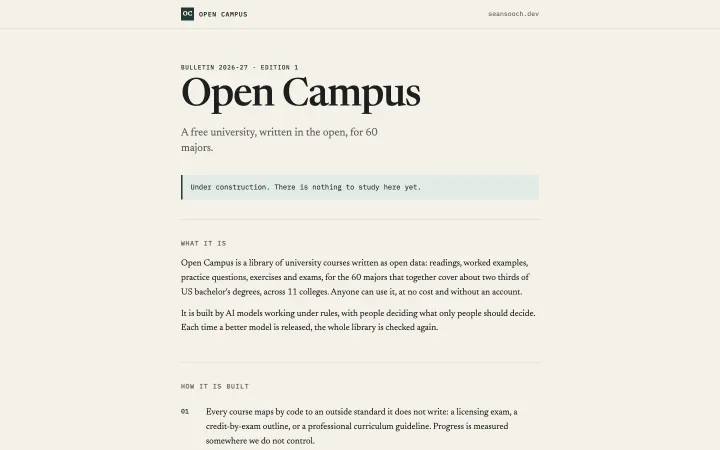
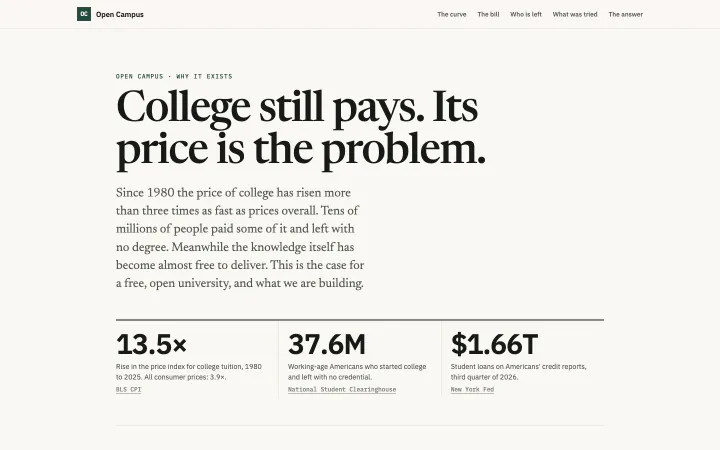
Works: Open Campus plate retaken on its new landing page; vol4 and card retaken after it

diff --git a/index.html b/index.html
@@ -10,7 +10,7 @@
 <meta property="og:description" content="Twenty-four live works where medicine, the military and frontier AI meet, built by a medical student and military officer with AI as the engineering tool. 176,913 lines across 487 files in fifteen of them. Every one is live, and this page asks each address to answer while you read.">
 <meta property="og:type" content="website">
 <meta property="og:url" content="https://seansooch.dev/">
-<meta property="og:image" content="https://seansooch.dev/plates/card.jpg?v=6afbb0e624">
+<meta property="og:image" content="https://seansooch.dev/plates/card.jpg?v=fa102caf46">
 <meta property="og:image:width" content="1200">
 <meta property="og:image:height" content="630">
 <meta name="twitter:card" content="summary_large_image">
@@ -256,7 +256,7 @@
       </div>
       
     </article><article class="work pair" id="campus" data-worlds="mac hum">
-      <figure class="plate-fig"><a class="plate" href="https://campus.seansooch.dev/" target="_blank" rel="noopener" tabindex="-1" aria-hidden="true"><img src="/plates/campus-720.webp?v=9b9a662ab5" srcset="/plates/campus-720.webp?v=9b9a662ab5 720w, /plates/campus.webp?v=13f58046a2 1440w" sizes="(max-width: 860px) 92vw, 46vw" width="1440" height="900" alt="Open Campus, as it looked on 17 Nov 2026" decoding="async" loading="lazy"></a></figure>
+      <figure class="plate-fig"><a class="plate" href="https://campus.seansooch.dev/" target="_blank" rel="noopener" tabindex="-1" aria-hidden="true"><img src="/plates/campus-720.webp?v=2083b9eca8" srcset="/plates/campus-720.webp?v=2083b9eca8 720w, /plates/campus.webp?v=769c20acc4 1440w" sizes="(max-width: 860px) 92vw, 46vw" width="1440" height="900" alt="Open Campus, as it looked on 17 Nov 2026" decoding="async" loading="lazy"></a></figure>
       <header class="work-h">
         <p class="cap-top lbl"><span>Machines · 60 majors</span><span class="live"><i class="dot" data-dot="campus"></i><span data-ms="campus">not asked yet</span><span class="note">under construction</span></span></p>
         <h4>Open Campus</h4>

diff --git a/record/index.html b/record/index.html
@@ -10,7 +10,7 @@
 <meta property="og:description" content="How this site is made and kept, apart from the work: every edition it has had, what is counted from source, what your browser measures as you read, and an index of everything on it.">
 <meta property="og:type" content="website">
 <meta property="og:url" content="https://seansooch.dev/record/">
-<meta property="og:image" content="https://seansooch.dev/plates/card.jpg?v=6afbb0e624">
+<meta property="og:image" content="https://seansooch.dev/plates/card.jpg?v=fa102caf46">
 <meta property="og:image:width" content="1200">
 <meta property="og:image:height" content="630">
 <meta name="twitter:card" content="summary_large_image">
@@ -93,7 +93,7 @@
         <p class="lbl">Retired with honors, November 2026.</p>
         <a class="go" href="https://seansooch-vol3.pages.dev/" target="_blank" rel="noopener">Open the archive<span aria-hidden="true"> ↗</span></a>
       </article><article class="vol" id="vol4">
-        <div class="plate"><img src="/plates/vol4-720.webp?v=9f1cb22e09" srcset="/plates/vol4-720.webp?v=9f1cb22e09 720w, /plates/vol4.webp?v=6eaaf8dace 1440w" sizes="(max-width: 860px) 92vw, 23vw" width="1440" height="900" alt="Vol. 04, Side by Side" decoding="async" loading="lazy"></div>
+        <div class="plate"><img src="/plates/vol4-720.webp?v=89f64918dd" srcset="/plates/vol4-720.webp?v=89f64918dd 720w, /plates/vol4.webp?v=4181fd84aa 1440w" sizes="(max-width: 860px) 92vw, 23vw" width="1440" height="900" alt="Vol. 04, Side by Side" decoding="async" loading="lazy"></div>
         <p class="cap-top lbl"><span>Vol. 04</span><span>November 2026</span></p>
         <h3>Side by Side</h3>
         <p class="say-s">A neutral room: each work beside its own earlier edition, no colour but the work&#x27;s. Designed by Claude Fable 5.2.</p>

diff --git a/two-stories/index.html b/two-stories/index.html
@@ -10,7 +10,7 @@
 <meta property="og:description" content="An origin story is a starting condition plus a rule, and the evidence only ever reaches the rule. Part I sets the Big Bang beside a generated origin, takes four objections seriously (tidiness, cheating, motive, and proving too much), and shows that two of them force the second story to change.">
 <meta property="og:type" content="article">
 <meta property="og:url" content="https://seansooch.dev/two-stories/">
-<meta property="og:image" content="https://seansooch.dev/plates/card.jpg?v=6afbb0e624">
+<meta property="og:image" content="https://seansooch.dev/plates/card.jpg?v=fa102caf46">
 <meta property="og:image:width" content="1200">
 <meta property="og:image:height" content="630">
 <meta name="twitter:card" content="summary_large_image">

diff --git a/lab/index.html b/lab/index.html
@@ -10,7 +10,7 @@
 <meta property="og:description" content="The Lab: a course in core medicine in eleven units, taught one picture at a time. Step-by-step visual lessons in plain language, each with goals, predictions, a quiz and a summary. Educational only, not for clinical use.">
 <meta property="og:type" content="website">
 <meta property="og:url" content="https://seansooch.dev/lab/">
-<meta property="og:image" content="https://seansooch.dev/plates/card.jpg?v=6afbb0e624">
+<meta property="og:image" content="https://seansooch.dev/plates/card.jpg?v=fa102caf46">
 <meta property="og:image:width" content="1200">
 <meta property="og:image:height" content="630">
 <meta name="twitter:card" content="summary_large_image">

diff --git a/404.html b/404.html
@@ -8,7 +8,7 @@
 <meta property="og:title" content="Nothing at this address · Sean Sooch">
 <meta property="og:description" content="There is no page at this address on seansooch.dev.">
 <meta property="og:type" content="website">
-<meta property="og:image" content="https://seansooch.dev/plates/card.jpg?v=6afbb0e624">
+<meta property="og:image" content="https://seansooch.dev/plates/card.jpg?v=fa102caf46">
 <meta property="og:image:width" content="1200">
 <meta property="og:image:height" content="630">
 <meta name="twitter:card" content="summary_large_image">
